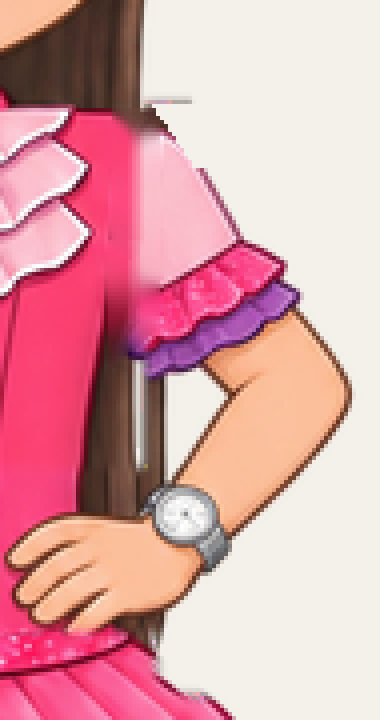
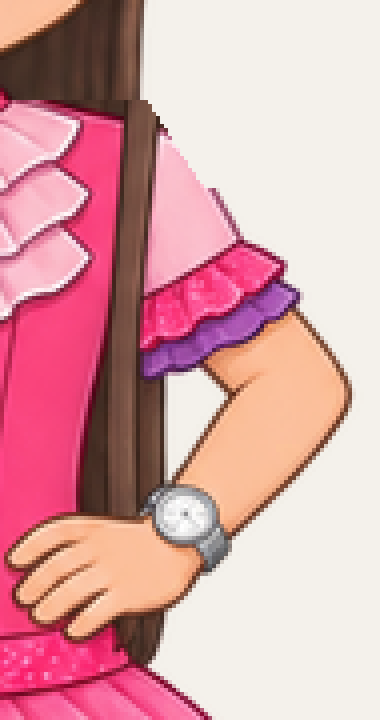
修正姐姐完整身體銜接並排除長髮遮罩中的手臂描邊

diff --git a/docs/cast-v2/measure_cast6.py b/docs/cast-v2/measure_cast6.py
@@ -69,6 +69,8 @@ def measure(key,im,s):
     if 'long_hair' in s:
         t=s['long_hair']; x0,y0,x1,y1=t['box']
         region=np.zeros_like(head);region[y0:y1,x0:x1]=True
+        if 'visible_regions' in t:region &= polys(t['visible_regions'])
+        region &= ~polys(t.get('exclude',[]))
         # Tail color sampling is separate, as in the reviewer's method.
         color=np.zeros_like(head)
         for point in t.get('samples',[t['sample']]):color |= np.linalg.norm(labs-lab(sample(a,point))[0],axis=2)<=DELTA_E
@@ -198,9 +200,10 @@ def make():
         table+='|'+label+'|'+fmt(REFERENCE[f])+'|'+fmt(blue[f])+'|'+'|'.join(cells)+'|\n'
     (OUT/'measurements.md').write_text(table)
     table+='\n核心欄位沿用小頌cast5；新增耳朵與扣耳面積依小頌最新審查改對照同程式布魯重算887／32078，耳朵不作關卡。\n'
+    table+='\n髮量補充對照本次布魯16412：'+ '、'.join(f'{r["name"]} {(r["hair_area"]/blue["hair_area"]-1)*100:+.2f}%' for r in rows if r['id'] in ['jiejie','hate','spirit'])+'。主表仍依使用者指定的16260基準，兩種基準均揭露。精靈髮頂判讀範圍y44–48，頭高207–211。\n'
     table+='\n姐姐下巴以下可見長髮 '+str(next(r['long_hair_area'] for r in rows if r['id']=='jiejie'))+' px²，已加進髮量。\n'
     table+='\n肩寬主表在固定 y280 量可見外輪廓，布魯包含上臂。抬手側不驗收。下巴+34 的參考寬（左／右／合計）：'+ '、'.join(f'{r["name"]} '+('不可量' if r['shoulder_chin34_left'] is None else str(r['shoulder_chin34_left']))+'/'+str(r['shoulder_chin34_right'])+'/'+('不可量' if r['shoulder_chin34_left'] is None else str(r['shoulder_chin34_left']+r['shoulder_chin34_right'])) for r in rows if r['id'] in specs)+'。\n'
-    table+='\n臉採最大膚色連通塊並補洞；人工耳朵區域先扣除。哈特頭髮受遮蔽、姐姐腿根受裙子遮蔽，不能以表內數字宣稱全項通過。基準胯下也是衣襬下估計。所有差距固定對照小頌 cast5 數字，本次布魯重算值另列，不用微調門檻消除落差。\n'
+    table+='\n臉採最大膚色連通塊並補洞；人工耳朵區域先扣除。哈特頭髮受遮蔽、姐姐腿根受裙子遮蔽，不能以表內數字宣稱全項通過。基準胯下也是衣襬下估計。主表核心差距固定對照小頌 cast5 數字；補充耳朵欄使用本次重算值，髮量雙基準另列，不用微調門檻消除落差。\n'
     (OUT/'measurements.md').write_text(table)
     (OUT/'measurements.json').write_text(json.dumps(dict(alpha=ALPHA,delta_e=DELTA_E,batch=batch,asset_sha1=hashes,reviewer_reference=REFERENCE,rows=rows,deltas=deltas),ensure_ascii=False,indent=2)+'\n')
     (ROOT/'docs/cast-v2/measurements.md').write_text(table)

diff --git a/docs/cast-v2/measurements.md b/docs/cast-v2/measurements.md
@@ -1,7 +1,7 @@
-素材批次 `67dbc93166868272`；起始 commit `3b3f1d94fba77366e2cd7ea7f19cb111f337918b`（不是最終提交碼）。
+素材批次 `b6f41198cfdd0c2f`；起始 commit `3b3f1d94fba77366e2cd7ea7f19cb111f337918b`（不是最終提交碼）。
 
 - `assets/chars/bulu.png` SHA1 `d5f57f313aa6d202f0cc474aa6c84fa7bcd7adbf`
-- `assets/chars/jiejie.png` SHA1 `850c4654ea3147caa4a3979574c73cd57160d27d`
+- `assets/chars/jiejie.png` SHA1 `7a29ed3fc43b7f5fa99b2b9353315b806873fc52`
 - `assets/chars/hate.png` SHA1 `04725fbe11825c614cc29e8f1267d3d86378b064`
 - `assets/chars/spirit.png` SHA1 `97bed0b06333fd63da96673466379310165d63f1`
 
@@ -12,21 +12,23 @@
 |臉最寬|133|133|135（+1.50%）|137（+3.01%）|135（+1.50%）|
 |下顎寬|115|115|106（-7.83%） 超標|115（+0.00%）|111（-3.48%）|
 |含髮頭寬|204|204|187（-8.33%） 超標|206（+0.98%）；遮蔽，不作通過關卡|208（+1.96%）|
-|頭部面積|32965|32965|31791（-3.56%）|33355（+1.18%）；遮蔽，不作通過關卡|33464（+1.51%）|
-|頭部面積扣耳|32078|32078|31038（-3.24%）|32143（+0.20%）；遮蔽，不作通過關卡|32193（+0.36%）|
-|耳朵面積|887|887|753（-15.11%） 參考、非關卡|1212（+36.64%） 參考、非關卡|1271（+43.29%） 參考、非關卡|
-|可見髮量|16260|16412|18300（+12.55%） 超標|16796（+3.30%）；遮蔽，不作通過關卡|17045（+4.83%）|
+|頭部面積|32965|32965|31794（-3.55%）|33355（+1.18%）；遮蔽，不作通過關卡|33464（+1.51%）|
+|頭部面積扣耳|32078|32078|31025（-3.28%）|32143（+0.20%）；遮蔽，不作通過關卡|32193（+0.36%）|
+|耳朵面積|887|887|769（-13.30%） 參考、非關卡|1212（+36.64%） 參考、非關卡|1271（+43.29%） 參考、非關卡|
+|可見髮量|16260|16412|18959（+16.60%） 超標|16796（+3.30%）；遮蔽，不作通過關卡|17045（+4.83%）|
 |右肩外輪廓單側|84|83|83（-1.19%）|84（+0.00%）|83（-1.19%）|
 |肩膀外輪廓合計|160|160|無法驗證|無法驗證|168（+5.00%）|
-|下巴到腰|146|146|140（-4.11%）|148（+1.37%）|142（-2.74%）|
+|下巴到腰|146|146|146（+0.00%）|148（+1.37%）|142（-2.74%）|
 |下巴到胯下|202|202|無法驗證|212（+4.95%）|202（+0.00%）；衣襬附近估計|
 |腿長|237|237|無法驗證|227（-4.22%）|229（-3.38%）；衣襬附近估計|
 |總高|656|656|653（-0.46%）|658（+0.30%）；遮蔽，不作通過關卡|642（-2.13%）|
 
 核心欄位沿用小頌cast5；新增耳朵與扣耳面積依小頌最新審查改對照同程式布魯重算887／32078，耳朵不作關卡。
 
-姐姐下巴以下可見長髮 1956 px²，已加進髮量。
+髮量補充對照本次布魯16412：微笑姐姐 +15.52%、哈特 +2.34%、氣球精靈 +3.86%。主表仍依使用者指定的16260基準，兩種基準均揭露。精靈髮頂判讀範圍y44–48，頭高207–211。
+
+姐姐下巴以下可見長髮 2628 px²，已加進髮量。
 
 肩寬主表在固定 y280 量可見外輪廓，布魯包含上臂。抬手側不驗收。下巴+34 的參考寬（左／右／合計）：布魯 77/83/160、微笑姐姐 不可量/83/不可量、哈特 不可量/84/不可量、氣球精靈 88/85/173。
 
-臉採最大膚色連通塊並補洞；人工耳朵區域先扣除。哈特頭髮受遮蔽、姐姐腿根受裙子遮蔽，不能以表內數字宣稱全項通過。基準胯下也是衣襬下估計。所有差距固定對照小頌 cast5 數字，本次布魯重算值另列，不用微調門檻消除落差。
+臉採最大膚色連通塊並補洞；人工耳朵區域先扣除。哈特頭髮受遮蔽、姐姐腿根受裙子遮蔽，不能以表內數字宣稱全項通過。基準胯下也是衣襬下估計。主表核心差距固定對照小頌 cast5 數字；補充耳朵欄使用本次重算值，髮量雙基準另列，不用微調門檻消除落差。

diff --git a/review/cast6/measurements.md b/review/cast6/measurements.md
@@ -1,7 +1,7 @@
-素材批次 `67dbc93166868272`；起始 commit `3b3f1d94fba77366e2cd7ea7f19cb111f337918b`（不是最終提交碼）。
+素材批次 `b6f41198cfdd0c2f`；起始 commit `3b3f1d94fba77366e2cd7ea7f19cb111f337918b`（不是最終提交碼）。
 
 - `assets/chars/bulu.png` SHA1 `d5f57f313aa6d202f0cc474aa6c84fa7bcd7adbf`
-- `assets/chars/jiejie.png` SHA1 `850c4654ea3147caa4a3979574c73cd57160d27d`
+- `assets/chars/jiejie.png` SHA1 `7a29ed3fc43b7f5fa99b2b9353315b806873fc52`
 - `assets/chars/hate.png` SHA1 `04725fbe11825c614cc29e8f1267d3d86378b064`
 - `assets/chars/spirit.png` SHA1 `97bed0b06333fd63da96673466379310165d63f1`
 
@@ -12,21 +12,23 @@
 |臉最寬|133|133|135（+1.50%）|137（+3.01%）|135（+1.50%）|
 |下顎寬|115|115|106（-7.83%） 超標|115（+0.00%）|111（-3.48%）|
 |含髮頭寬|204|204|187（-8.33%） 超標|206（+0.98%）；遮蔽，不作通過關卡|208（+1.96%）|
-|頭部面積|32965|32965|31791（-3.56%）|33355（+1.18%）；遮蔽，不作通過關卡|33464（+1.51%）|
-|頭部面積扣耳|32078|32078|31038（-3.24%）|32143（+0.20%）；遮蔽，不作通過關卡|32193（+0.36%）|
-|耳朵面積|887|887|753（-15.11%） 參考、非關卡|1212（+36.64%） 參考、非關卡|1271（+43.29%） 參考、非關卡|
-|可見髮量|16260|16412|18300（+12.55%） 超標|16796（+3.30%）；遮蔽，不作通過關卡|17045（+4.83%）|
+|頭部面積|32965|32965|31794（-3.55%）|33355（+1.18%）；遮蔽，不作通過關卡|33464（+1.51%）|
+|頭部面積扣耳|32078|32078|31025（-3.28%）|32143（+0.20%）；遮蔽，不作通過關卡|32193（+0.36%）|
+|耳朵面積|887|887|769（-13.30%） 參考、非關卡|1212（+36.64%） 參考、非關卡|1271（+43.29%） 參考、非關卡|
+|可見髮量|16260|16412|18959（+16.60%） 超標|16796（+3.30%）；遮蔽，不作通過關卡|17045（+4.83%）|
 |右肩外輪廓單側|84|83|83（-1.19%）|84（+0.00%）|83（-1.19%）|
 |肩膀外輪廓合計|160|160|無法驗證|無法驗證|168（+5.00%）|
-|下巴到腰|146|146|140（-4.11%）|148（+1.37%）|142（-2.74%）|
+|下巴到腰|146|146|146（+0.00%）|148（+1.37%）|142（-2.74%）|
 |下巴到胯下|202|202|無法驗證|212（+4.95%）|202（+0.00%）；衣襬附近估計|
 |腿長|237|237|無法驗證|227（-4.22%）|229（-3.38%）；衣襬附近估計|
 |總高|656|656|653（-0.46%）|658（+0.30%）；遮蔽，不作通過關卡|642（-2.13%）|
 
 核心欄位沿用小頌cast5；新增耳朵與扣耳面積依小頌最新審查改對照同程式布魯重算887／32078，耳朵不作關卡。
 
-姐姐下巴以下可見長髮 1956 px²，已加進髮量。
+髮量補充對照本次布魯16412：微笑姐姐 +15.52%、哈特 +2.34%、氣球精靈 +3.86%。主表仍依使用者指定的16260基準，兩種基準均揭露。精靈髮頂判讀範圍y44–48，頭高207–211。
+
+姐姐下巴以下可見長髮 2628 px²，已加進髮量。
 
 肩寬主表在固定 y280 量可見外輪廓，布魯包含上臂。抬手側不驗收。下巴+34 的參考寬（左／右／合計）：布魯 77/83/160、微笑姐姐 不可量/83/不可量、哈特 不可量/84/不可量、氣球精靈 88/85/173。
 
-臉採最大膚色連通塊並補洞；人工耳朵區域先扣除。哈特頭髮受遮蔽、姐姐腿根受裙子遮蔽，不能以表內數字宣稱全項通過。基準胯下也是衣襬下估計。所有差距固定對照小頌 cast5 數字，本次布魯重算值另列，不用微調門檻消除落差。
+臉採最大膚色連通塊並補洞；人工耳朵區域先扣除。哈特頭髮受遮蔽、姐姐腿根受裙子遮蔽，不能以表內數字宣稱全項通過。基準胯下也是衣襬下估計。主表核心差距固定對照小頌 cast5 數字；補充耳朵欄使用本次重算值，髮量雙基準另列，不用微調門檻消除落差。

diff --git a/docs/cast-v2/README.md b/docs/cast-v2/README.md
@@ -12,7 +12,7 @@
 
 使用 Codex 內建 imagegen 共10次，加本機 Pillow/NumPy/OpenCV。沒有即夢、點數、付費API、新安裝、AppleScript或Chrome操作。原設定取 `525ab99^:assets/chars/<id>.png`。
 
-最後採用：姐姐第4張、哈特第3張、精靈第3張。所有來源1086×1448，去掉不相連透明雜點後等比縮小，平移到540×720，腳底y685。姐姐右臂另取本輪第2張等比處理候選，於原位置合成，接縫羽化1.2px，後以本機OpenCV局部補掉袖子前方殘留髮線及修齊袖緣；沒有非等比拉伸。中途試過局部等比放大頭部與另排皇冠，但最後三張沒有採用這些版本。
+最後採用：姐姐第4張的頭與第2張的完整身體、哈特第3張、精靈第3張。所有來源1086×1448，去掉不相連透明雜點後等比縮小，平移到540×720，腳底y685。姐姐右臂另取本輪第2張等比處理候選，於原位置合成，接縫羽化1.2px，後以本機OpenCV局部補掉袖子前方殘留髮線及修齊袖緣；沒有非等比拉伸。中途試過局部等比放大頭部與另排皇冠，但最後三張沒有採用這些版本。
 
 最後提示重點：姐姐保持長直髮、圓眼張嘴笑和頂部結，縮窄臉與右肩、長髮藏在軀幹後；哈特保留中分棕髮、大圓眼、細弧眉、尖鼻亮點和寬笑嘴，只加寬紅袖肩及移帽；精靈保留短毛絨藍髮、黑短眉、直向橢圓眼、小圓鼻與小笑嘴，肩膀回補適量、腰帶下移、站直對稱。未採用候選不作定版依據。
 
@@ -34,10 +34,12 @@
 
 ## 未全部做到
 
-姐姐下顎寬106（−7.83%）、含髮頭寬187（−8.33%）仍超過額外檢查門檻；腿根被裙子遮住，無法驗證腿長。哈特帽子遮住頭髮，表內頭部相關數值只代表可見部分，不能證明完整頭一致。姐姐含長髮的髮量18300（+12.55%）仍超標。精靈肩膀合計168（+5%）、下巴+34處合計173（+8.13%）和髮量+4.83%都貼近門檻，人工邊界有約2–5px誤差，不冒稱穩定通過。耳朵面積作拆解參考，尖耳是精靈原設定，並非要求把耳朵改成相同大小。
+姐姐下顎寬106（−7.83%）、含髮頭寬187（−8.33%）仍超過額外檢查門檻；腿根被裙子遮住，無法驗證腿長。哈特帽子遮住頭髮，表內頭部相關數值只代表可見部分，不能證明完整頭一致。姐姐含長髮的髮量18959（+16.60%）仍超標。精靈肩膀合計168（+5%）、下巴+34處合計173（+8.13%）和髮量+4.83%都貼近門檻，人工邊界有約2–5px誤差，不冒稱穩定通過。耳朵面積作拆解參考，尖耳是精靈原設定，並非要求把耳朵改成相同大小。
 
 原設定仍未完全重現：哈特帽子較小且後傾、精靈皇冠比原設定矮、褲管仍較窄；姐姐瀏海較疏。這些造型取捨未經我的王核准。不能以核心可見數字接近就宣告全項完成。
 
 只推 `xiaoxia/cast-redraw-v2`，不merge、不推main，不發正式tag，不部署。這是草稿審查交付，沒有宣告專案改版結案或完成Drive結案備份。
 
 補充：精靈冠座改用藍色髮束輪廓分界，y44開始有藍髮，不再以矩形框截頭；矩形框敏感度與逐列顏色計數見 review/cast6/crown-boundary.md。
+
+最終長髮2628px²，已限定可見髮束區域並排除叉腰手臂/手掌輪廓，避免同色描邊誤入。精靈頭高按髮頂邊線可落在207–211。
